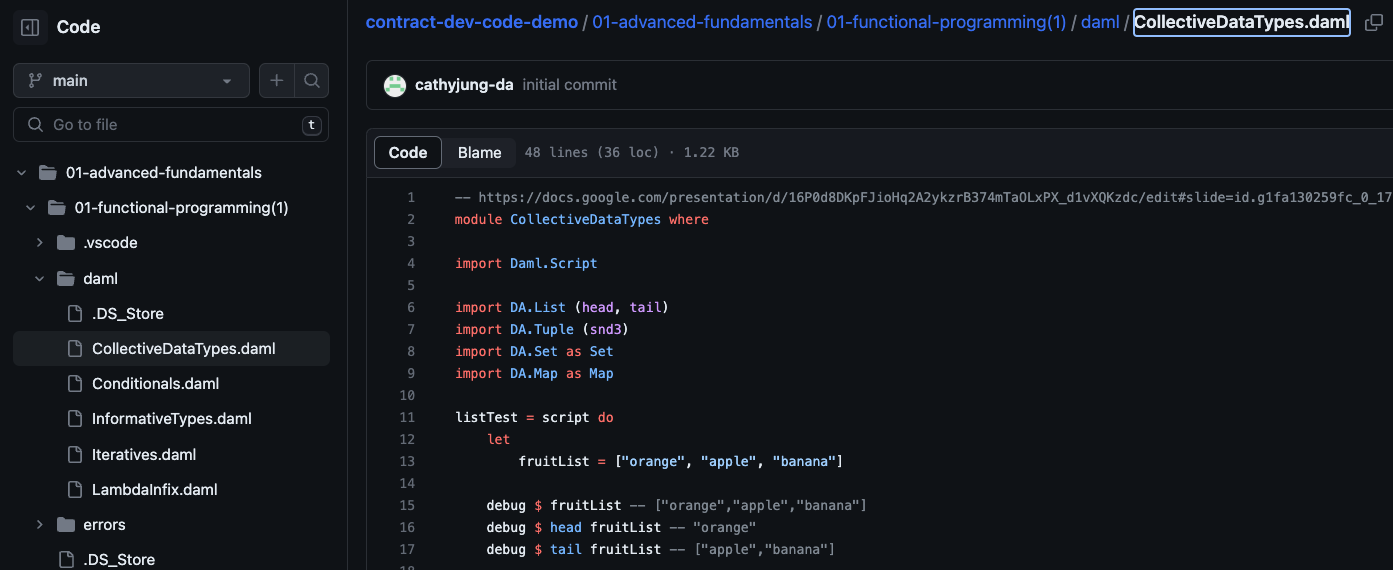
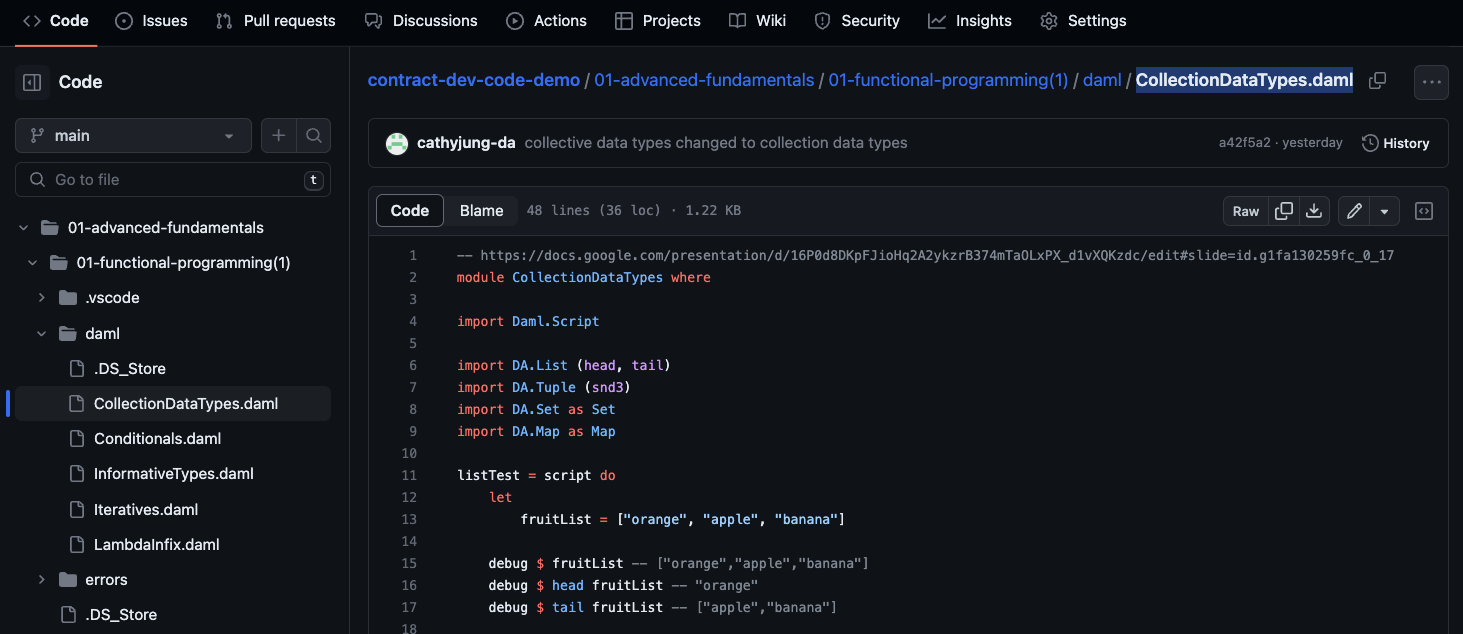
collective changed to collection

diff --git a/README.md b/README.md
@@ -9,7 +9,7 @@ Within each course folder, you will find subfolders representing individual less
 
 ![file-tree1](./img/file-tree1.png)
 
-The daml directory within each lesson folder contains the code demos used for specific slides within the lesson. For example, the file `CollectiveDataTypes.daml` contains the code demo used for the "Collective Data Types" slide within the lesson. These code demos are designed to illustrate and clarify the main concepts covered in each lesson.
+The daml directory within each lesson folder contains the code demos used for specific slides within the lesson. For example, the file `CollectionDataTypes.daml` contains the code demo used for the "Collection Data Types" slide within the lesson. These code demos are designed to illustrate and clarify the main concepts covered in each lesson.
 
 ![file-tree2](./img/file-tree2.png)
 
